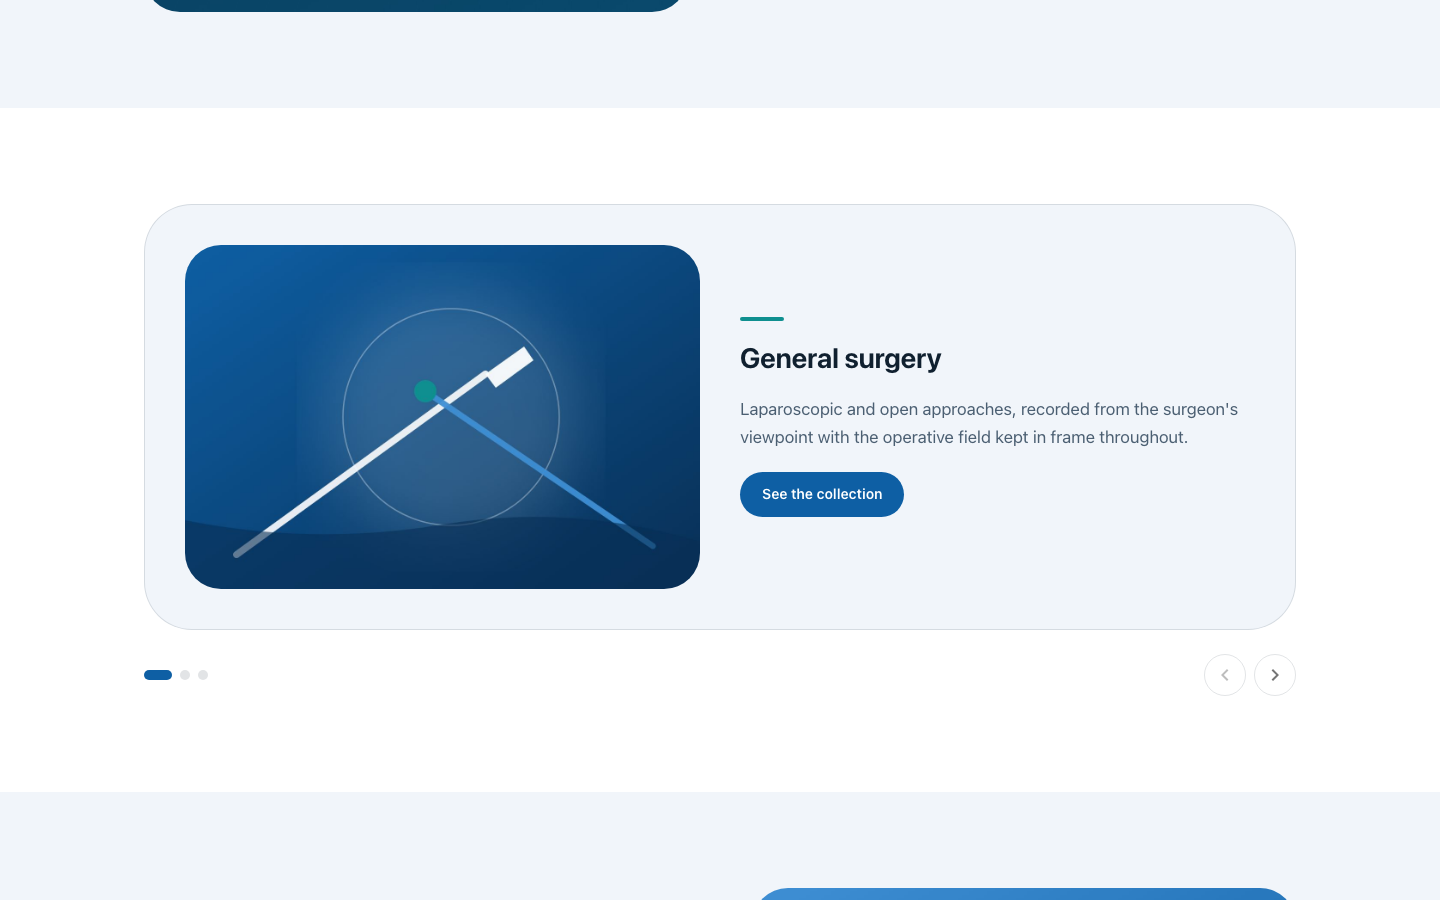
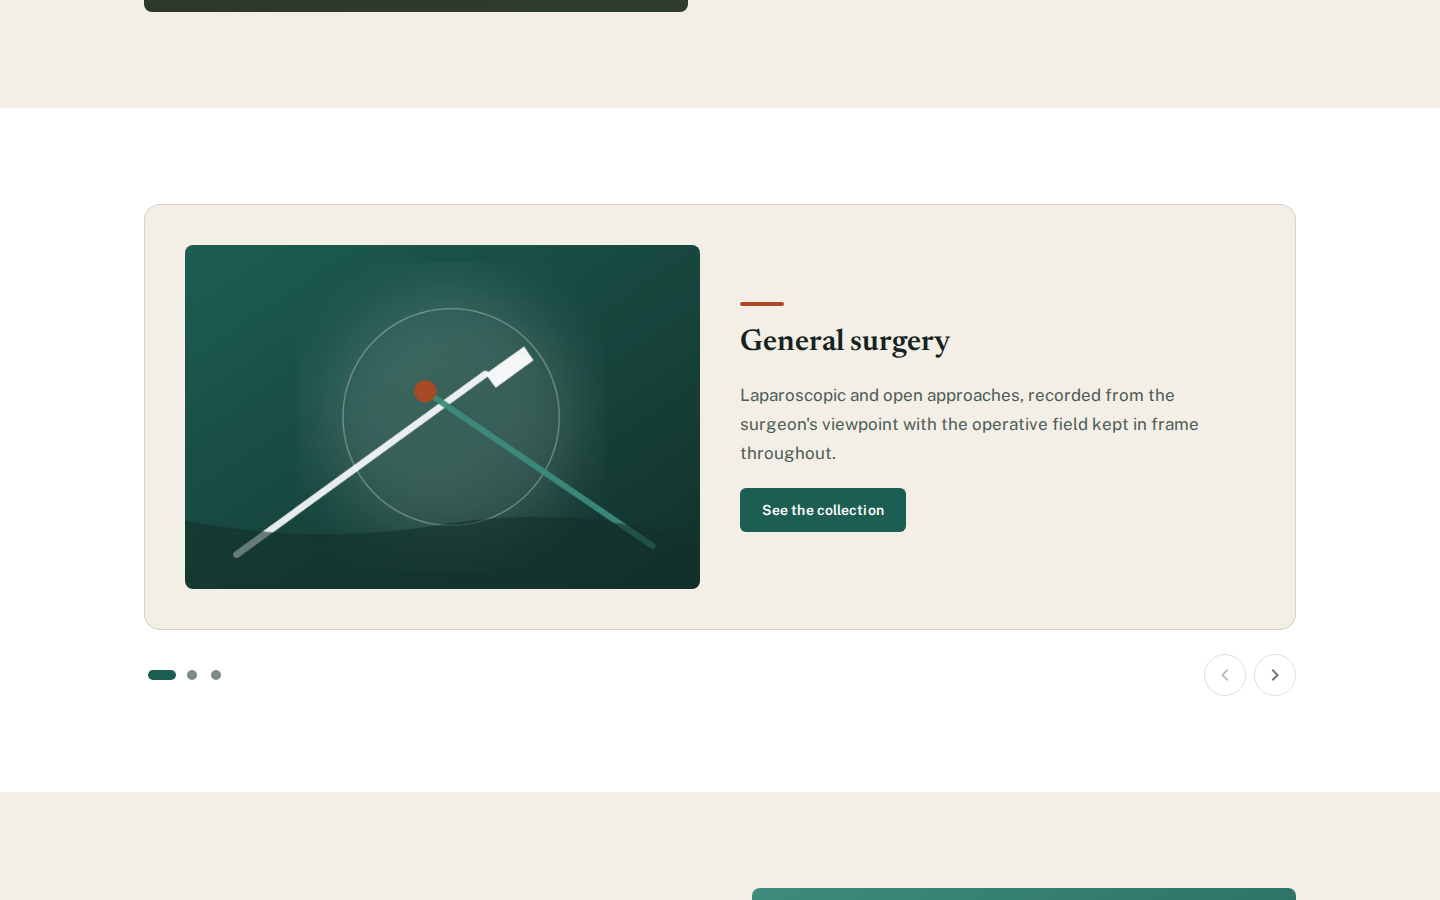
Recapture screenshots and document the new look
Screenshots are retaken from the Next 12.3 build in the Playwright
image. The README gains a look-and-feel section, the Node pin, a
container recipe for the screenshot scripts and a licence note; the
"image never built" gap is gone now that compose has been booted, and
the Next 12 / React 17 ceiling is listed in its place.

diff --git a/README.md b/README.md
@@ -16,7 +16,7 @@ This repository is the front-end half only.
 > **What is this repository's own.** `jomijournal/jomi-challenge-frontend` is a
 > repository you fork, not an empty one: the Apollo plumbing, the codegen
 > config, `graphql/types.tsx`, the Jest wiring and stubbed block components with
-> `//TODO` markers all came with it. Sixteen of the fifty-seven tracked files
+> `//TODO` markers all came with it. Sixteen of the sixty tracked files
 > outside `public/` and `docs/` descend from that starter, and one of them —
 > `graphql/types.tsx`, 508 lines of codegen output from JOMI's schema — is
 > untouched. Nothing outside the brief was invented: widening an interview
@@ -59,7 +59,7 @@ To point it at a real CMS, put `CMS_SOURCE=strapi` and `STRAPI_URL` in a `.env`
 next to `docker-compose.yml` and rebuild — the homepage is prerendered at build
 time, so the source is chosen then.
 
-Without Docker:
+Without Docker, on Node 22 (`.nvmrc`; Node 24 also works) and Yarn 1:
 
 ```bash
 yarn install
@@ -84,6 +84,29 @@ shots are 1440x900, mobile is 390x844.
 The artwork is generated, not stock photography — `scripts/generate-seed-art.mjs`
 draws it from the theme palette, which keeps the repository free of licensing
 questions.
+
+Both scripts need Playwright's Chromium. Without installing it locally, run
+them in the matching Playwright image on a production build:
+
+```bash
+docker run --rm -v "$PWD":/app -w /app mcr.microsoft.com/playwright:v1.63.0-noble \
+  sh -c 'yarn install --frozen-lockfile && CMS_SOURCE=fixture yarn build && yarn screenshots'
+```
+
+### Look and feel
+
+JOMI publishes filmed surgery as a peer-reviewed journal, so the page borrows
+from print rather than from a product landing page: Newsreader, an editorial
+serif, for headings; Public Sans for body copy; scrub green as the working
+colour, an iodine orange as the one accent, and warm paper behind alternating
+sections. The header band is flat dark green with a single pool of light from
+above, like a theatre lamp. Every token lives in `theme/index.ts`, and the text
+and control colours were checked against WCAG AA (body text at least 6:1,
+carousel indicators at least 3:1).
+
+Both families load from Google Fonts with `display=swap`, behind system
+fallbacks of similar proportions, so text renders immediately and a blocked
+font request only changes the face.
 
 ## From the dynamic zone to HTML
 
@@ -207,7 +230,7 @@ components/ui/       CmsImage: next/image with a reserved box and per-breakpoint
 lib/cms/             blocks.ts (view models) · mapHomePage.ts (trust boundary) ·
                      homePage.ts (source + revalidate) · strapi.ts (server-only client) ·
                      fixtures.ts (deterministic sample payload, in Strapi's own shape)
-theme/index.ts       typography, palette, focus ring, alternating section surfaces
+theme/index.ts       fonts, palette, focus ring, alternating section surfaces
 pages/               _document.tsx (server-side Emotion extraction), _app.tsx, index.tsx
 scripts/             screenshot capture, seed artwork, PNG optimiser
 ```
@@ -221,18 +244,21 @@ needs before it will swap in a real source.
 ```
 $ yarn test
 Test Suites: 13 passed, 13 total
-Tests:       126 passed, 126 total
-Time:        2.364 s
+Tests:       130 passed, 130 total
+Time:        2.527 s
 ```
 
 ## Known gaps
 
 - **One route.** The brief is the `homePage` single type, so there is no
   routing, no article page and no search.
-- **The Docker image has not been built here.** `docker compose config` parses
-  and the Dockerfile is maintained alongside the rest, but the image was never
-  built or booted in this environment. Treat that path as reviewed, not
-  smoke-tested.
+- **Next.js 12 and React 17.** Both are on their last release line. Moving to
+  Next 13+ means migrating every `next/image` call off the legacy
+  `layout`/`objectFit` props and taking React 18 with it, which is a deliberate
+  change of its own rather than a dependency bump.
+- **Fonts come from Google at runtime.** Self-hosting them would remove the
+  third-party request; `next/font`, which would do that automatically, needs
+  Next 13.
 - **No CSP.** MUI and Emotion inject styles at runtime, so a useful policy needs
   a nonce plumbed through `_document`. The other standard headers
   (`X-Content-Type-Options`, `X-Frame-Options`, `Referrer-Policy`,
@@ -249,3 +275,7 @@ Time:        2.364 s
   keyboard before any JavaScript runs — deliberate, but a difference from most
   marketing carousels. The CMS component carries no presentation settings at
   all, so every one of those choices is made here.
+
+## Licence
+
+MIT — see [`LICENSE`](LICENSE).
